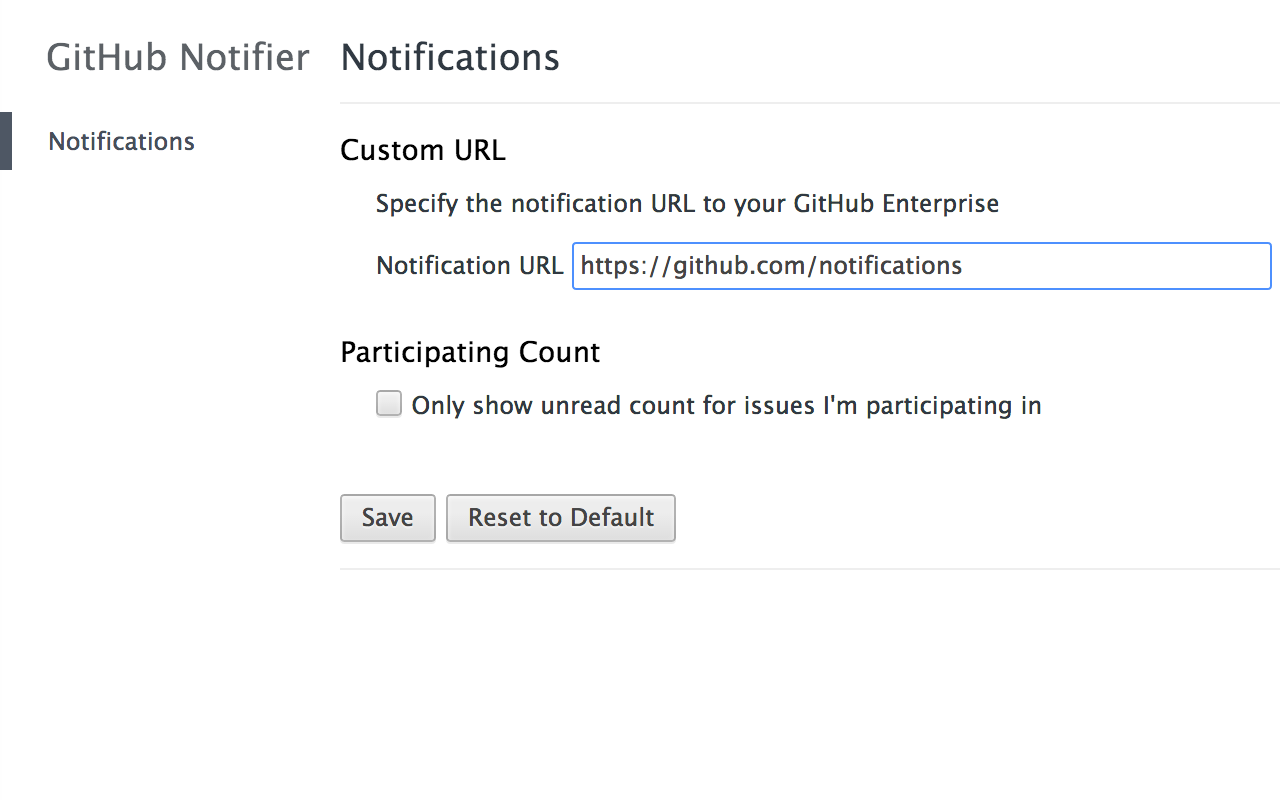
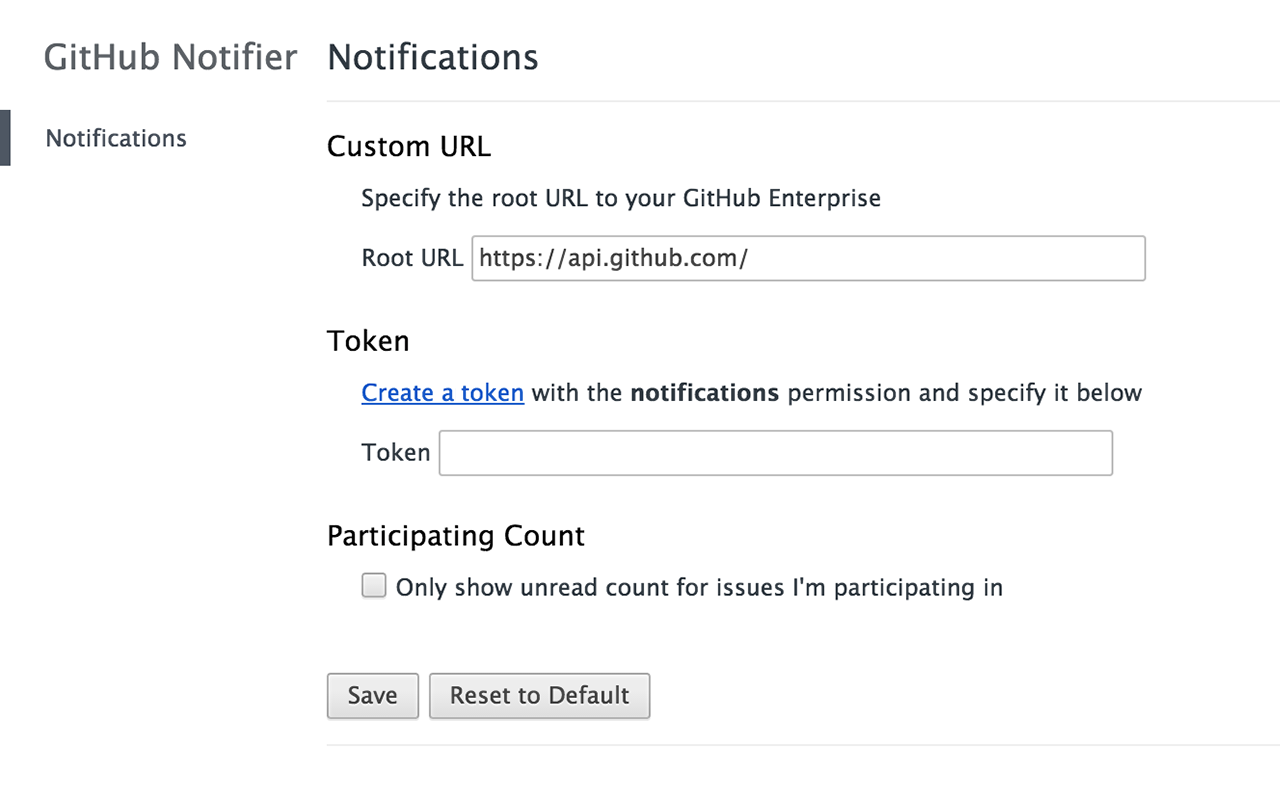
new screenshot and improve description

diff --git a/readme.md b/readme.md
@@ -2,6 +2,10 @@
 
 > Chrome/Opera extension - Displays your GitHub notifications unread count
 
+It checks the GitHub Notifications API every minute. Supports GitHub Enterprise and an option to only show unread count for issues you're participating in.
+
+Make sure to add a token in the Options page.
+
 ![](screenshot.png)
 ![](screenshot-webstore2.png)
 
